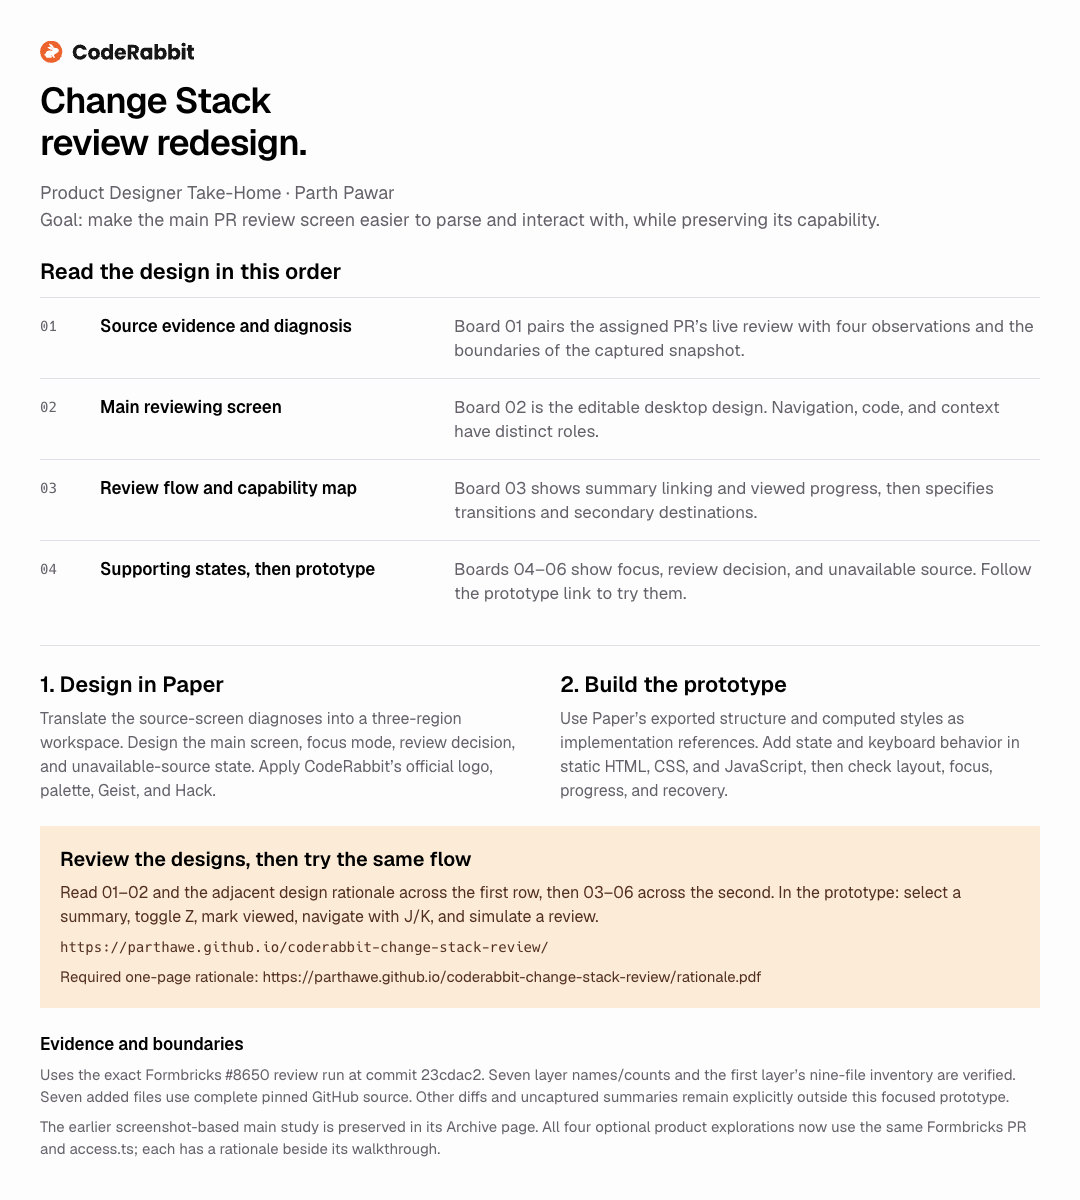
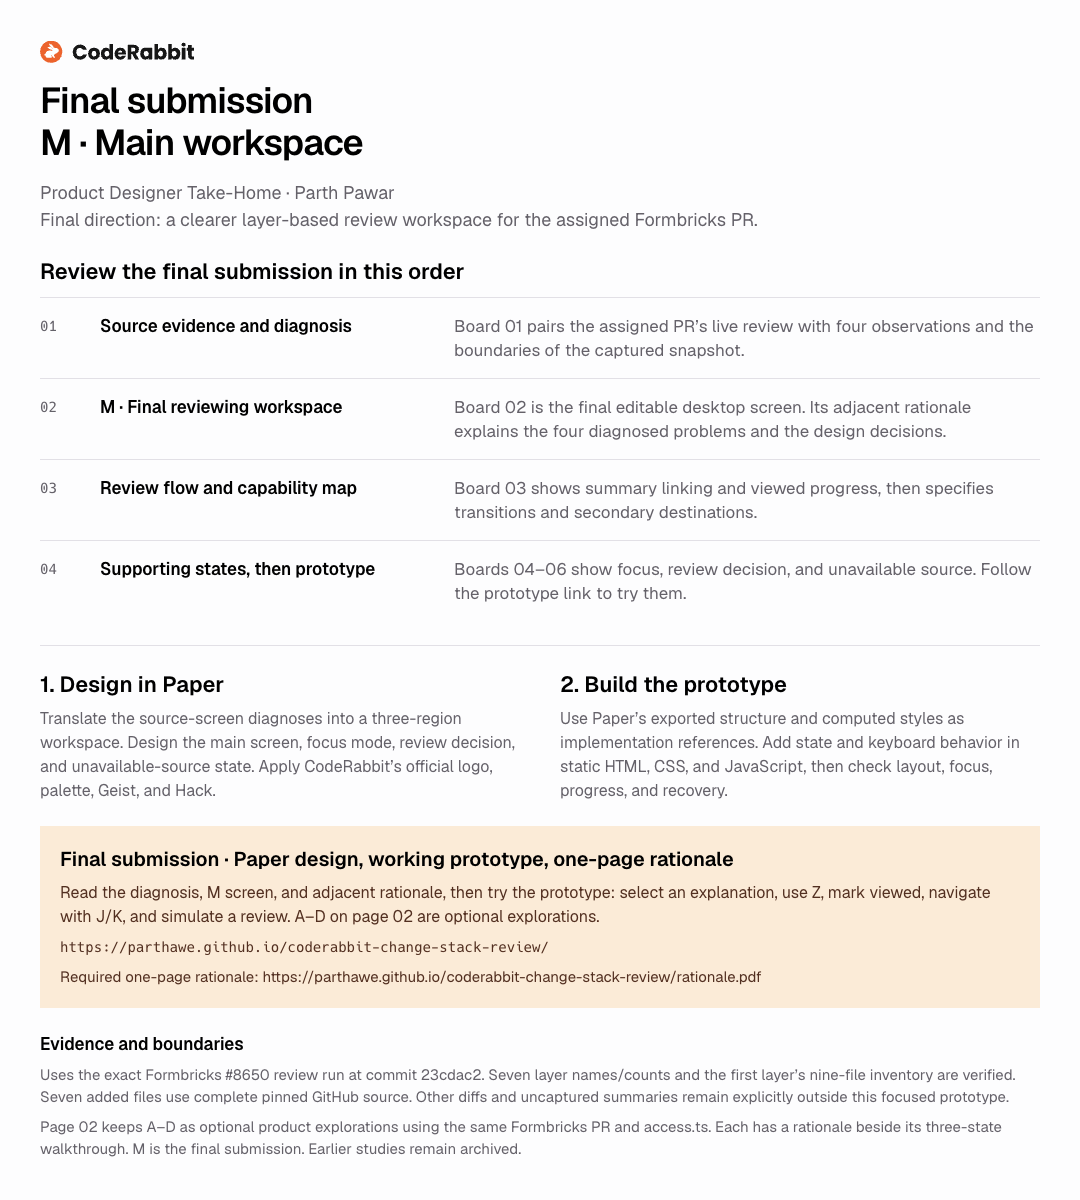
Make M the final submission and retain A–D as optional explorations

diff --git a/dist/approaches.html b/dist/approaches.html
@@ -1,8 +1,8 @@
 <!doctype html>
-<html lang="en"><head><meta charset="utf-8"><meta name="viewport" content="width=device-width,initial-scale=1"><meta name="robots" content="noindex,nofollow"><title>CodeRabbit · Compare review approaches</title><link rel="stylesheet" href="approaches.css?v=formbricks-approaches-20261019"><script src="approaches.js?v=formbricks-approaches-20261019" defer></script><link rel="stylesheet" href="brand.css?v=brand-20261019"></head>
+<html lang="en"><head><meta charset="utf-8"><meta name="viewport" content="width=device-width,initial-scale=1"><meta name="robots" content="noindex,nofollow"><title>Final M + optional explorations · CodeRabbit</title><link rel="stylesheet" href="approaches.css?v=final-m-20261020"><script src="approaches.js?v=final-m-20261020" defer></script><link rel="stylesheet" href="brand.css?v=brand-20261019"></head>
 <body><a class="skip" href="#gallery">Skip to walkthroughs</a><main>
-<header><div><img class="brand-lockup" src="brand/orange-typemark.svg" width="124" height="18" alt="CodeRabbit"><h1>Five approaches, one Formbricks change</h1><p>Compare the main workspace and four exploration journeys using <strong>Formbricks #8650</strong>, access.ts at commit 23cdac2. Shared review question: Does feedback-record access stay within the permitted tenant? Each exploration has three editable Paper states.</p></div><div class="header-links"><a href="https://app.paper.design/file/01M5AQACJZP42ZGTRX7GF9ERE7/p-3-0/1VE-0" target="_blank" rel="noopener">Open editable Paper comparison</a><a href="index.html">Working main prototype</a></div></header>
-<aside class="appendix-note"><strong>Primary design and optional explorations</strong><span>The main workspace answers the reviewing-screen brief. The four journeys explore different review units using the same pinned source. Their product controls remain illustrative.</span><a href="index.html">Open primary submission</a></aside><details class="baseline-comparison"><summary>M · Main workspace: view the design and its reasoning</summary><div class="baseline-content"><div><img src="approach-assets/main.png?v=formbricks-approaches-20261019" width="1440" height="960" alt="Main layer-based reviewing workspace for the same Formbricks pull request"><p>The main screen opens at the workspace summary. Select “Enforce record ownership” in the <a href="index.html">working prototype</a> to inspect the same guard used below. <a href="https://app.paper.design/file/01M5AQACJZP42ZGTRX7GF9ERE7/p-1-0/1-0" target="_blank" rel="noopener">Open native Paper screen</a>.</p></div><div class="design-rationale"><p class="reasoning-status">Primary assignment submission · working browser prototype</p><dl><dt>Did I identify the right problems?</dt><dd>I prioritized competing toolbars, separated layer/file navigation, unclear summary scope, and three progress signals. These affect where a reviewer looks, what a control acts on, and what completion means.</dd><dt>How does the polish help?</dt><dd>I gave navigation, code, and context distinct regions. One file toolbar groups frequent actions. Linked highlights, J/K, Z with scroll preservation, reversible progress, filtered comments, and focus-restoring dialogs make the path predictable.</dd><dt>Is the same information easier to scan?</dt><dd>The selected layer, filename, path, and explanation remain visible together. File and layer counts are explicit. The original already links summaries to code; matching selection makes that connection easier to follow.</dd><dt>Why this approach?</dt><dd>The layout follows the task: locate the change, inspect evidence, understand its explanation, then record a judgment. Seen, viewed, and submitted remain distinct states.</dd><dt>Tradeoff and evidence boundary</dt><dd>Closest fit to the brief. Seven added-file diffs support the browser path; several secondary workflows remain previews. No measured speed gain or complete capability parity is claimed.</dd></dl></div></div></details><nav class="approach-nav" aria-label="Choose exploration journeys"><button data-filter="all" aria-pressed="true">Compare all four explorations</button><button data-filter="A" aria-pressed="false">A · Behavior-first</button><button data-filter="B" aria-pressed="false">B · Counterexamples</button><button data-filter="C" aria-pressed="false">C · Impact-first</button><button data-filter="D" aria-pressed="false">D · Author handoff</button></nav>
+<header><div><img class="brand-lockup" src="brand/orange-typemark.svg" width="124" height="18" alt="CodeRabbit"><h1>Final submission M + four explorations</h1><p>M is the final reviewing-screen design. A–D are optional product explorations using <strong>Formbricks #8650</strong>, access.ts at commit 23cdac2. Shared review question: Does feedback-record access stay within the permitted tenant? Each exploration has three editable Paper states.</p></div><div class="header-links"><a href="https://app.paper.design/file/01M5AQACJZP42ZGTRX7GF9ERE7/p-3-0/1VE-0" target="_blank" rel="noopener">Open editable Paper comparison</a><a href="index.html">Open final M prototype</a></div></header>
+<aside class="appendix-note"><strong>Submit M · Main reviewing workspace</strong><span>M addresses the brief through clearer navigation, summary scope, linked code, and distinct progress states. A–D document alternatives considered; their pictured product controls are illustrative.</span><a href="index.html">Open final M prototype</a></aside><details class="baseline-comparison" open><summary>M · Final submission: design and reasoning</summary><div class="baseline-content"><div><img src="approach-assets/main.png?v=final-m-20261020" width="1440" height="960" alt="Main layer-based reviewing workspace for the same Formbricks pull request"><p>The main screen opens at the workspace summary. Select “Enforce record ownership” in the <a href="index.html">working prototype</a> to inspect the same guard used below. <a href="https://app.paper.design/file/01M5AQACJZP42ZGTRX7GF9ERE7/p-1-0/1-0" target="_blank" rel="noopener">Open native Paper screen</a>.</p></div><div class="design-rationale"><p class="reasoning-status">Final submission M · working browser prototype</p><dl><dt>Did I identify the right problems?</dt><dd>I prioritized competing toolbars, separated layer/file navigation, unclear summary scope, and three progress signals. These affect where a reviewer looks, what a control acts on, and what completion means.</dd><dt>How does the polish help?</dt><dd>I gave navigation, code, and context distinct regions. One file toolbar groups frequent actions. Linked highlights, J/K, Z with scroll preservation, reversible progress, filtered comments, and focus-restoring dialogs make the path predictable.</dd><dt>Is the same information easier to scan?</dt><dd>The selected layer, filename, path, and explanation remain visible together. File and layer counts are explicit. The original already links summaries to code; matching selection makes that connection easier to follow.</dd><dt>Why this approach?</dt><dd>The layout follows the task: locate the change, inspect evidence, understand its explanation, then record a judgment. Seen, viewed, and submitted remain distinct states.</dd><dt>Tradeoff and evidence boundary</dt><dd>Closest fit to the brief. Seven added-file diffs support the browser path; several secondary workflows remain previews. No measured speed gain or complete capability parity is claimed.</dd></dl></div></div></details><nav class="approach-nav" aria-label="Choose exploration journeys"><button data-filter="all" aria-pressed="true">Compare all four explorations</button><button data-filter="A" aria-pressed="false">A · Behavior-first</button><button data-filter="B" aria-pressed="false">B · Counterexamples</button><button data-filter="C" aria-pressed="false">C · Impact-first</button><button data-filter="D" aria-pressed="false">D · Author handoff</button></nav>
 <section class="stage-bar" aria-label="Walkthrough stage"><div class="stage-intro"><strong>Compare the same moment</strong><span>Move all visible approaches together.</span></div><div class="stages" role="group" aria-label="Choose a stage"><button data-stage="0" aria-pressed="true">1 · Start</button><button data-stage="1" aria-pressed="false">2 · Inspect</button><button data-stage="2" aria-pressed="false">3 · Decide</button></div><div class="stage-actions"><button id="previous" disabled>Previous</button><span id="stage-count">1 / 3</span><button id="next">Next</button></div></section>
 <div class="reading-note"><p id="mode-note">Choose a stage to compare the four approaches, or follow one journey.</p><p>Step-through walkthroughs. Controls inside the screen images are illustrative.</p></div>
 <p class="sr-only" id="announcement" role="status" aria-live="polite"></p>

diff --git a/dist/index.html b/dist/index.html
@@ -2,13 +2,17 @@
 <html lang="en">
 <head>
   <meta charset="UTF-8"><meta name="viewport" content="width=device-width,initial-scale=1">
-  <title>Change Stack — CodeRabbit design prototype</title>
+  <title>Final submission M · CodeRabbit Change Stack</title>
   <meta name="description" content="An independent CodeRabbit review workspace prototype by Parth Pawar. Explore layer navigation, connected summaries, focus mode, and review progress.">
   <meta name="robots" content="noindex,nofollow">
-  <link rel="stylesheet" href="styles.css?v=formbricks-approaches-20261019">
-<link rel="stylesheet" href="brand.css?v=formbricks-approaches-20261019"><link rel="stylesheet" href="live.css?v=formbricks-approaches-20261019"></head>
+  <link rel="stylesheet" href="styles.css?v=final-m-20261020">
+<link rel="stylesheet" href="brand.css?v=final-m-20261020"><link rel="stylesheet" href="live.css?v=final-m-20261020"></head>
 <body>
   <a class="skip-link" href="#diff">Skip to code</a>
+  <section class="submission-bar" aria-label="Design assignment submission">
+    <div><strong>Final submission · M</strong><span>Main reviewing workspace · Parth Pawar</span></div>
+    <nav aria-label="Submission links"><a href="https://app.paper.design/file/01M5AQACJZP42ZGTRX7GF9ERE7/p-1-0/1YS-0" target="_blank" rel="noopener">Paper design &amp; process</a><a href="rationale.pdf" target="_blank" rel="noopener">One-page rationale</a><a href="approaches.html">Explorations A–D</a></nav>
+  </section>
   <header class="global-header">
     <a class="wordmark" href="#" data-action="overview"><img src="brand/orange-typemark.svg" width="124" height="18" alt="CodeRabbit"></a>
     <div class="pr-identity"><div class="repo">formbricks / formbricks <span>#8650</span><span class="source-open">23cdac2 · out of date</span></div><h1>Feedback records MCP integration</h1></div>
@@ -29,9 +33,9 @@
     </main>
     <aside class="context-panel" id="context" aria-label="Change context"><div class="context-heading"><h2>Change context</h2><span>This file</span><button class="close-context" id="close-context" aria-label="Close context">Close</button></div><div class="tabs" role="tablist" aria-label="File context"><button role="tab" id="summaries-tab" aria-selected="true" aria-controls="summaries-panel">Summaries <span>2</span></button><button role="tab" id="comments-tab" aria-selected="false" aria-controls="comments-panel" tabindex="-1">Comments <span>3</span></button></div><section id="summaries-panel" role="tabpanel" aria-labelledby="summaries-tab"><p class="context-hint">2 of 6 file summaries · 37 in this layer</p><p id="summary-progress" class="summary-progress">0 / 37 summaries seen · local</p><div id="complexity-controls" class="complexity-controls" role="group" aria-label="Summary complexity"><button data-complexity="All" aria-pressed="true">All</button><button data-complexity="High" aria-pressed="false">High</button><button data-complexity="Medium" aria-pressed="false">Medium</button><button data-complexity="Low" aria-pressed="false" title="Uncaptured low-complexity summary preview">Low</button></div><div id="summary-list"></div><p class="context-footnote">Summaries condensed from the exact run. Uncaptured low-complexity summaries remain a labeled preview.</p><button class="text-link" data-preview="Source & prototype notes">View source &amp; prototype notes</button></section><section id="comments-panel" role="tabpanel" aria-labelledby="comments-tab" hidden></section></aside>
   </div>
-  <footer class="prototype-footer"><span>Independent prototype · exact Formbricks run · 7 of 52 file diffs · local review state</span><a href="approaches.html">Compare approach walkthroughs</a><button id="notes">Source notes &amp; states</button></footer>
+  <footer class="prototype-footer"><span>Independent prototype · exact Formbricks run · 7 of 52 file diffs · local review state</span><a href="approaches.html">Optional explorations A–D</a><button id="notes">Source notes &amp; states</button></footer>
   <div class="toast" role="status" id="toast" hidden></div>
   <dialog id="dialog" aria-labelledby="dialog-title"><form method="dialog" id="dialog-form"><div class="dialog-heading"><h2 id="dialog-title"></h2><button class="quiet" value="cancel" aria-label="Close dialog">Close</button></div><div id="dialog-content"></div></form></dialog>
-  <script src="app.js?v=formbricks-approaches-20261019" defer></script>
+  <script src="app.js?v=final-m-20261020" defer></script>
 </body>
 </html>

diff --git a/dist/live.css b/dist/live.css
@@ -1,2 +1,5 @@
 .navigation{padding:16px;gap:4px}.overview-links{gap:4px}.overview-links button{padding:6px 12px;font-size:13px}.nav-label{padding:8px 12px 6px}.layer{padding:6px 8px;min-height:52px}.layer-copy{gap:0}.layer-copy strong{font-size:13px;line-height:18px}.layer-copy small{font-size:11px;line-height:14px}.layer-files{padding:0}.file-nav{padding-top:4px;padding-bottom:4px;height:28px}.more-files{margin:4px 0 8px 30px;font-size:12px}.nav-bottom{padding-top:16px;gap:0}.nav-bottom>button{font-size:12px;padding-top:5px;padding-bottom:5px}.keyboard-hints{padding-top:12px;font-size:11px}.file-actions{gap:6px}.file-position,#file-position{font-family:var(--sans);font-size:11px;padding:0}.summary-progress{font:11px/18px var(--mono);color:var(--muted);margin:0 0 10px}.complexity-controls{display:flex;gap:6px;margin-bottom:16px}.complexity-controls button{border:0;background:transparent;padding:4px 8px;font-size:12px}.complexity-controls button[aria-pressed=true]{background:var(--selected);color:var(--brand-ink)}.summary-card{border-bottom:1px solid var(--line);margin:0 0 16px;padding-bottom:8px;border-radius:4px}.summary-card:has(>.summary-item[aria-pressed=true]){background:var(--selected);border:1px solid #e57340}.summary-card .summary-item{border:0;margin:0;background:transparent;box-shadow:none}.summary-card .summary-seen{display:block;margin:0 12px 0 auto;padding:0 0 4px;font-size:12px}.file-choice{display:flex;flex-direction:column;gap:4px;width:100%;text-align:left;margin-top:8px;font-size:13px;overflow-wrap:anywhere}.file-choice small{color:var(--muted);font-size:12px}#file-search{width:100%;margin:8px 0 12px;padding:10px;border:1px solid #bdb9c2;border-radius:4px;font:14px var(--sans)}.source-filter{display:flex;justify-content:space-between;gap:8px;margin-top:16px;font-size:12px;color:var(--muted)}.empty-row{min-height:24px}.context-footnote{padding-top:8px}.summary-item .range{line-height:18px}.summary-item[aria-pressed=true] .summary-body{color:var(--brand-ink)}
 @media(max-width:1439px){.file-actions{gap:4px}.file-actions button{padding:7px 8px}.filename{gap:8px}}
+
+/* Submission metadata sits outside the simulated product workspace. */
+.submission-bar{flex-shrink:0;display:flex;align-items:center;justify-content:space-between;gap:24px;padding:9px 24px;border-bottom:1px solid var(--line);background:var(--surface);font-size:12px;line-height:18px}.submission-bar>div,.submission-bar nav{display:flex;align-items:center;gap:20px}.submission-bar strong{font-weight:600;white-space:nowrap}.submission-bar span{color:var(--muted)}.submission-bar a{white-space:nowrap}.submission-bar nav{gap:24px}@media(max-width:1100px){.submission-bar span{display:none}.submission-bar nav{gap:18px}}

diff --git a/dist/approaches.js b/dist/approaches.js
@@ -4,7 +4,7 @@ const $=selector=>document.querySelector(selector);
 const labels=['Start','Inspect','Decide'];
 let filter='all',stage=0,viewerKey=null,focusBack=null;
 const cards=new Map();
-function imagePath(key,index){return 'approach-assets/'+key.toLowerCase()+(index+1)+'.png?v=formbricks-approaches-20261019'}
+function imagePath(key,index){return 'approach-assets/'+key.toLowerCase()+(index+1)+'.png?v=final-m-20261020'}
 function bindImage(img,loading,error,button){
  const loaded=()=>{loading.hidden=true;error.hidden=true;if(button)button.disabled=false};
  const failed=()=>{loading.hidden=true;error.hidden=false;if(button)button.disabled=true};

diff --git a/docs/verification.md b/docs/verification.md
@@ -41,3 +41,7 @@ The twelve-screen approach gallery now uses the same Formbricks PR, pinned file,
 All twelve full-size Paper states, five native rationale panels, and the refreshed overview were visually inspected. No clipping or overlap was observed. Text searches on the comparison page found no mono PR, UserList, cache, reset, or old line-747 references. Exact code excerpts are checked against the pinned fixture. The verified layer dependency was cross-checked against the saved source accessibility capture. The old screenshot study remains in archive pages. Browser layout, stage controls, disclosures, and published assets are checked as part of this release; no measured usability claim is made.
 
 Current comparison checks: at 1440×1000 and 390×844, no document horizontal overflow was observed. All four Inspect images loaded at their native 1160px width. Stage navigation, single-approach filtering, expanded reasoning persistence, main-workspace disclosure, viewer progression, Escape, and trigger-focus restoration passed. All 24 native Paper code lines matched the pinned fixture. JavaScript syntax and whitespace checks passed. One design-detector pass returned no findings for the changed comparison page. The updated rationale PDF remains one page and was rendered and visually inspected.
+
+## Final submission M handoff
+
+M is explicitly final on Paper page 01 and its start/rationale boards. Page 02 retains A–D as optional explorations using the same pinned PR. The public prototype has submission links outside the simulated workspace; the exploration gallery opens with M and its rationale visible. The final site was inspected at 1440 and 1280 pixels, with no new overlap or page overflow. Summary navigation, reversible file progress, focus restoration, and all four exploration inspection states were checked. Submission and sharing limits remain labeled.

diff --git a/README.md b/README.md
@@ -1,6 +1,6 @@
-# CodeRabbit Change Stack Review
+# CodeRabbit Change Stack Review · Final submission M
 
-Independent design exercise by Parth Pawar. The primary submission redesigns one reviewing screen using the assigned Formbricks #8650 review run, commit `23cdac2`.
+Independent design exercise by Parth Pawar. **M · Main reviewing workspace is the final submission.** It redesigns one reviewing screen using the assigned Formbricks #8650 review run, commit `23cdac2`.
 
 - [Editable Paper design and process](https://app.paper.design/file/01M5AQACJZP42ZGTRX7GF9ERE7/p-1-0/1YS-0)
 - [Public working prototype](https://parthawe.github.io/coderabbit-change-stack-review/)
@@ -8,6 +8,8 @@ Independent design exercise by Parth Pawar. The primary submission redesigns one
 - [Original and redesign](https://parthawe.github.io/coderabbit-change-stack-review/comparison.html)
 - [Requirement audit](docs/REQUIREMENT-AUDIT.md)
 - [Verification and limits](docs/verification.md)
+
+A–D are optional product explorations, kept on a separate Paper page and in the [exploration appendix](https://parthawe.github.io/coderabbit-change-stack-review/approaches.html). They do not replace M.
 
 ## Review order
 
